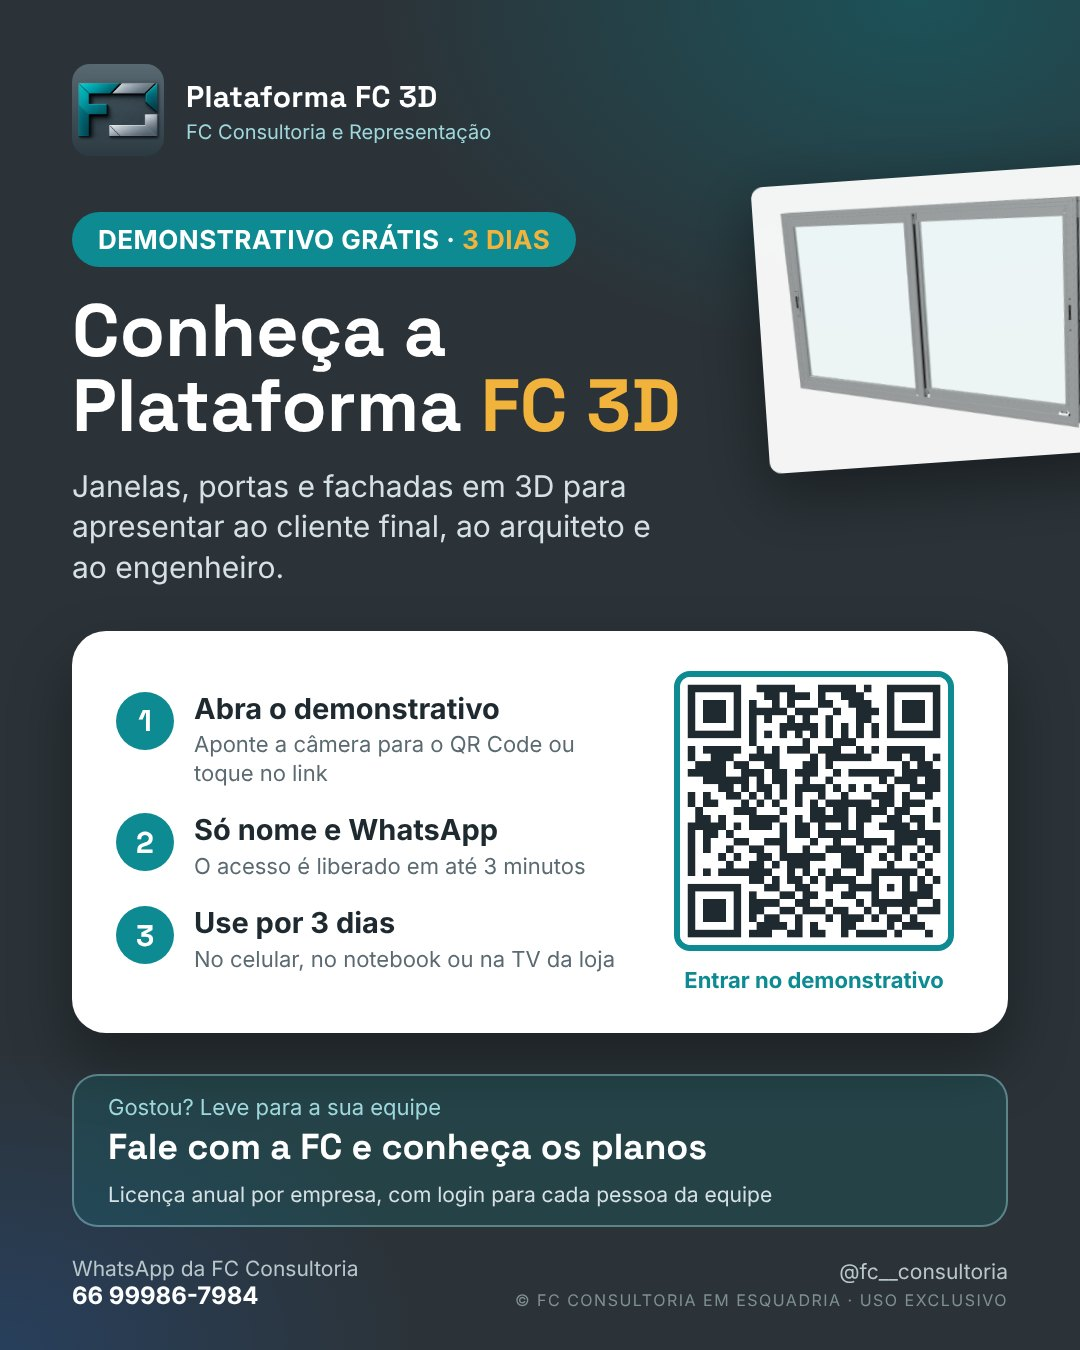
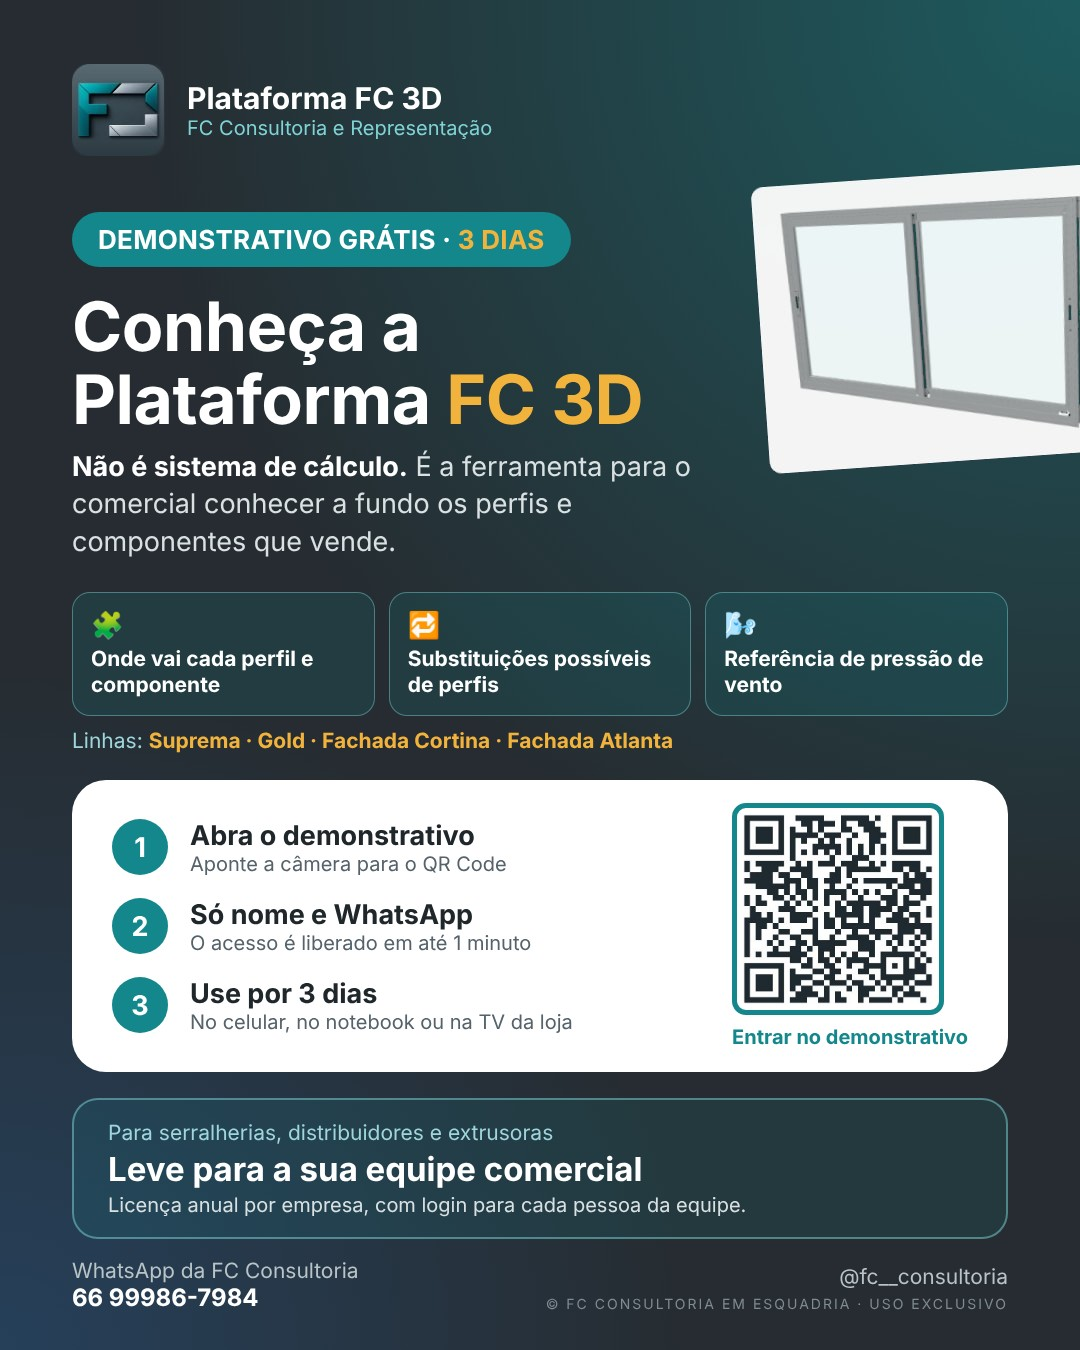
Plataforma FC 3D: folder e textos do site com a nova abordagem (ferramenta do comercial, não sistema de cálculo; 4 linhas)
Claude-Session: https://claude.ai/code/session_014hNNLCRjPvxHuqXagWzFm1

diff --git a/index.html b/index.html
@@ -193,7 +193,7 @@ footer{padding:28px 0 90px;color:var(--tm);font-size:13.5px}footer .w{display:fl
 
 <style>@media(max-width:760px){.mcb{grid-template-columns:1fr!important}.mcb>div:last-child{justify-self:start!important}}</style>
 <section class="tr" id="treinamento"><div class="w">
- <div class="sh"><div><span class="chip">NOVO</span><br><span class="eb">Plataforma FC 3D</span><h2>Apresente esquadrias em 3D para quem decide a obra</h2></div><p>A ferramenta da vidraçaria para mostrar janelas, portas e fachadas ao cliente final, ao arquiteto e ao engenheiro. Licença anual por empresa, com login para cada pessoa da equipe.</p></div>
+ <div class="sh"><div><span class="chip">NOVO</span><br><span class="eb">Plataforma FC 3D</span><h2>O comercial conhecendo a fundo os perfis e componentes que vende</h2></div><p>Não é sistema de cálculo nem de orçamento. É a ferramenta para a equipe comercial de serralherias, distribuidores e extrusoras ver onde vai cada perfil e componente, as substituições possíveis e a referência de pressão de vento. Licença anual por empresa, com login para cada pessoa da equipe.</p></div>
  <style>
  .dif{margin:6px 0 34px;padding:26px;border-radius:22px;background:linear-gradient(160deg,#103f45 0,#0b2a2f 100%);border:1px solid rgba(110,210,220,.25)}
  .dif .dt{display:flex;align-items:baseline;gap:12px;flex-wrap:wrap;margin-bottom:18px}.dif .dt h3{font-size:26px;margin:0;color:#fff}.dif .dt span{color:#9fd6dc;font-size:15px}
@@ -221,11 +221,11 @@ footer{padding:28px 0 90px;color:var(--tm);font-size:13.5px}footer .w{display:fl
  </div>
  <div class="trg">
   <div><ul class="fl">
-   <li><i>🧊</i><div><b>Tipologias em 3D</b><br><span>Janelas e portas das linhas Suprema e Gold: gire, abra e mostre cada detalhe ao cliente.</span></div></li>
+   <li><i>🧩</i><div><b>Onde vai cada perfil e componente</b><br><span>Janelas e portas das linhas Suprema e Gold: a aplicação de cada peça na montagem.</span></div></li>
+   <li><i>🔁</i><div><b>Substituições possíveis</b><br><span>Quais perfis podem substituir outros, para atender com o que a empresa tem.</span></div></li>
+   <li><i>🌬</i><div><b>Referência de pressão de vento</b><br><span>Simulação na própria tela, com as medidas da esquadria.</span></div></li>
+   <li><i>🏢</i><div><b>Fachada Cortina e Fachada Atlanta</b><br><span>Montagens das fachadas em 3D com as medidas da obra.</span></div></li>
    <li><i>📐</i><div><b>Desenho técnico interativo</b><br><span>Elevação e cortes da montagem; passe o mouse no perfil e veja o código e o peso.</span></div></li>
-   <li><i>🏢</i><div><b>Apresentação de fachadas</b><br><span>Fachada Cortina e Pele de Vidro com as medidas da obra, lado a lado.</span></div></li>
-   <li><i>▶</i><div><b>Modo apresentação</b><br><span>Tela cheia para a TV ou o telão da reunião com o cliente.</span></div></li>
-   <li><i>📘</i><div><b>Orientativo para a equipe</b><br><span>Módulos de estudo para cada colaborador aprender as tipologias.</span></div></li>
   </ul>
 </div>
   <div class="shots"><img class="s1" src="img/02-conhecer.jpg" alt="Janela de correr em 3D na Plataforma FC 3D" loading="lazy"><img class="s2" src="fc3d/clientes/img/folha-tecnica.webp" alt="Desenho técnico interativo da janela de correr 2 folhas" loading="lazy"></div>
@@ -234,17 +234,17 @@ footer{padding:28px 0 90px;color:var(--tm);font-size:13.5px}footer .w{display:fl
   <div class="dhd"><div><span class="chip">VÍDEO · 1 min</span><h3>Como funciona o demonstrativo de 3 dias</h3><p>Abra o link, preencha só nome e WhatsApp, e use por 3 dias no celular, no notebook ou na TV.</p></div></div>
     <div class="dbox" id="dbox"><video id="dvid" src="vid/plataforma_fc3d_demonstrativo.mp4?v=4" poster="img/plataforma-fc3d-video.jpg" controls playsinline preload="none"></video><button type="button" id="dplay">▶ Assista como funciona</button></div>
   <div class="dfold">
-   <a class="dfimg" href="img/folder-demonstrativo-fc3d.jpg" target="_blank" rel="noopener"><img src="img/folder-demonstrativo-fc3d-540.webp" width="540" height="675" alt="Folder do demonstrativo grátis de 3 dias da Plataforma FC 3D" loading="lazy"></a>
+   <a class="dfimg" href="img/folder-demonstrativo-fc3d.jpg?v=2" target="_blank" rel="noopener"><img src="img/folder-demonstrativo-fc3d-540.webp?v=2" width="540" height="675" alt="Folder do demonstrativo grátis de 3 dias da Plataforma FC 3D" loading="lazy"></a>
    <div class="dftx">
     <span class="chip">DEMONSTRATIVO GRÁTIS · 3 DIAS</span>
     <h3>Entre agora e conheça a Plataforma FC 3D</h3>
     <ol>
      <li><b>Abra o demonstrativo</b> pelo botão abaixo ou pelo QR Code do folder.</li>
-     <li><b>Só nome e WhatsApp:</b> o acesso é liberado em até 3 minutos.</li>
+     <li><b>Só nome e WhatsApp:</b> o acesso é liberado em até 1 minuto.</li>
      <li><b>Use por 3 dias</b> no celular, no notebook ou na TV da loja.</li>
     </ol>
-    <p class="dfal">Gostou? Fale com a FC e conheça os planos para a sua equipe: licença anual por empresa, com login para cada pessoa.</p>
-    <div class="dfbt"><a class="btn cy" href="fc3d/clientes/demo/" target="_blank" rel="noopener">▶ Entrar no demonstrativo</a><a class="btn gh" href="https://wa.me/5566999867984?text=Ol%C3%A1%2C%20FC!%20Conheci%20a%20Plataforma%20FC%203D%20pelo%20demonstrativo%20e%20quero%20saber%20dos%20planos%20para%20a%20minha%20equipe." target="_blank" rel="noopener">💬 Gostei, quero falar com a FC</a><a class="btn gh" href="img/folder-demonstrativo-fc3d.jpg" download="Folder-Plataforma-FC3D-demonstrativo.jpg">⬇ Baixar o folder</a></div>
+    <p class="dfal">Gostou? Leve para a sua equipe comercial: fale com a FC e conheça os planos de licença anual por empresa, com login para cada pessoa.</p>
+    <div class="dfbt"><a class="btn cy" href="fc3d/clientes/demo/" target="_blank" rel="noopener">▶ Entrar no demonstrativo</a><a class="btn gh" href="https://wa.me/5566999867984?text=Ol%C3%A1%2C%20FC!%20Conheci%20a%20Plataforma%20FC%203D%20pelo%20demonstrativo%20e%20quero%20saber%20dos%20planos%20para%20a%20minha%20equipe." target="_blank" rel="noopener">💬 Gostei, quero falar com a FC</a><a class="btn gh" href="img/folder-demonstrativo-fc3d.jpg?v=2" download="Folder-Plataforma-FC3D-demonstrativo.jpg">⬇ Baixar o folder</a></div>
    </div>
   </div>
   <p class="dnote">📘 É uma ferramenta de apresentação e simulação: medidas e pesos são demonstrativos e devem ser confirmados no sistema de cálculo e com o seu fornecedor. Suprema e Gold são marcas de seus respectivos titulares.</p>
@@ -258,7 +258,7 @@ footer{padding:28px 0 90px;color:var(--tm);font-size:13.5px}footer .w{display:fl
   <div class="sv"><i>🖥</i><h3>Sistema de cálculo</h3><p>Implantação e parametrização do sistema de cálculo: cadastros, tabelas de preço e parâmetros. Consulte a disponibilidade para o seu sistema.</p></div>
   <div class="sv"><i>🔎</i><h3>Pesquisa de fornecedores</h3><p>Comparativo de perfis e componentes entre fornecedores, com equivalência de códigos e preço por quilo.</p></div>
   <div class="sv"><i>📊</i><h3>Tabela de preços calibrada</h3><p>Tabela ajustada ao seu custo real, para o orçamento sair rápido e sem perder margem.</p></div>
-  <div class="sv"><i>🪟</i><h3>Plataforma FC 3D</h3><p>A vidraçaria apresenta janelas, portas e fachadas em 3D ao cliente final, ao arquiteto e ao engenheiro, com login para cada pessoa da equipe.</p></div>
+  <div class="sv"><i>🪟</i><h3>Plataforma FC 3D</h3><p>Não é sistema de cálculo: é a ferramenta para o comercial conhecer onde vai cada perfil e componente, as substituições possíveis e a pressão de vento.</p></div>
  </div>
 </div></section>
 

diff --git a/fc3d/clientes/demo/index.html b/fc3d/clientes/demo/index.html
@@ -4,9 +4,9 @@
 <meta charset="utf-8">
 <meta name="viewport" content="width=device-width,initial-scale=1">
 <title>Demonstrativo · Plataforma FC 3D</title>
-<meta name="description" content="Conheça por 3 dias a Plataforma FC 3D: janelas, portas e fachadas em 3D para apresentar ao cliente final, ao arquiteto e ao engenheiro.">
+<meta name="description" content="Conheça por 3 dias a Plataforma FC 3D: a ferramenta para o comercial conhecer onde vai cada perfil e componente, as substituições possíveis e a pressão de vento.">
 <meta property="og:title" content="Demonstrativo grátis · Plataforma FC 3D">
-<meta property="og:description" content="Janelas, portas e fachadas em 3D para apresentar ao cliente final, ao arquiteto e ao engenheiro. Teste por 3 dias.">
+<meta property="og:description" content="Não é sistema de cálculo: é a ferramenta para o comercial conhecer a fundo os perfis e componentes que vende. Teste por 3 dias.">
 <meta property="og:image" content="https://fc-consultoria.github.io/img/logo-fc-160.jpg">
 <meta property="og:url" content="https://fc-consultoria.github.io/fc3d/clientes/demo/">
 <meta http-equiv="refresh" content="0;url=../?demo=1">
